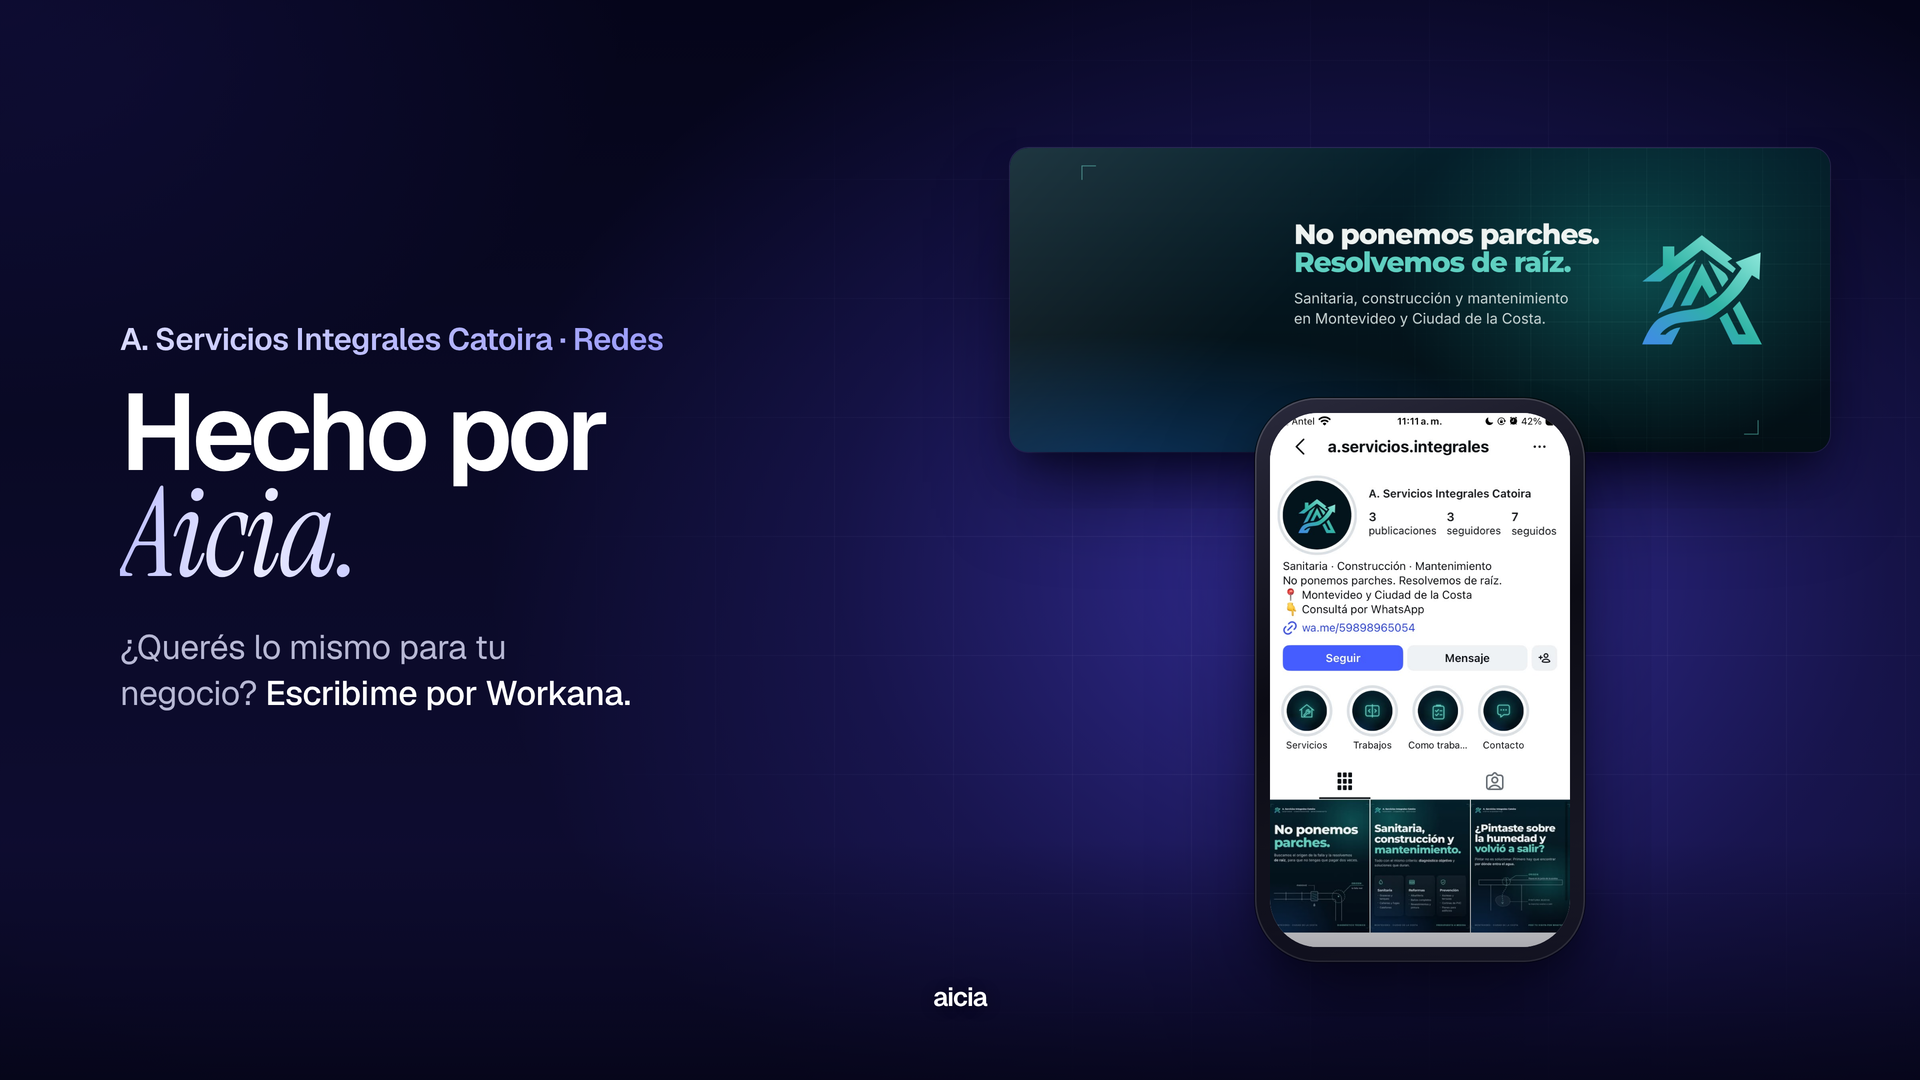
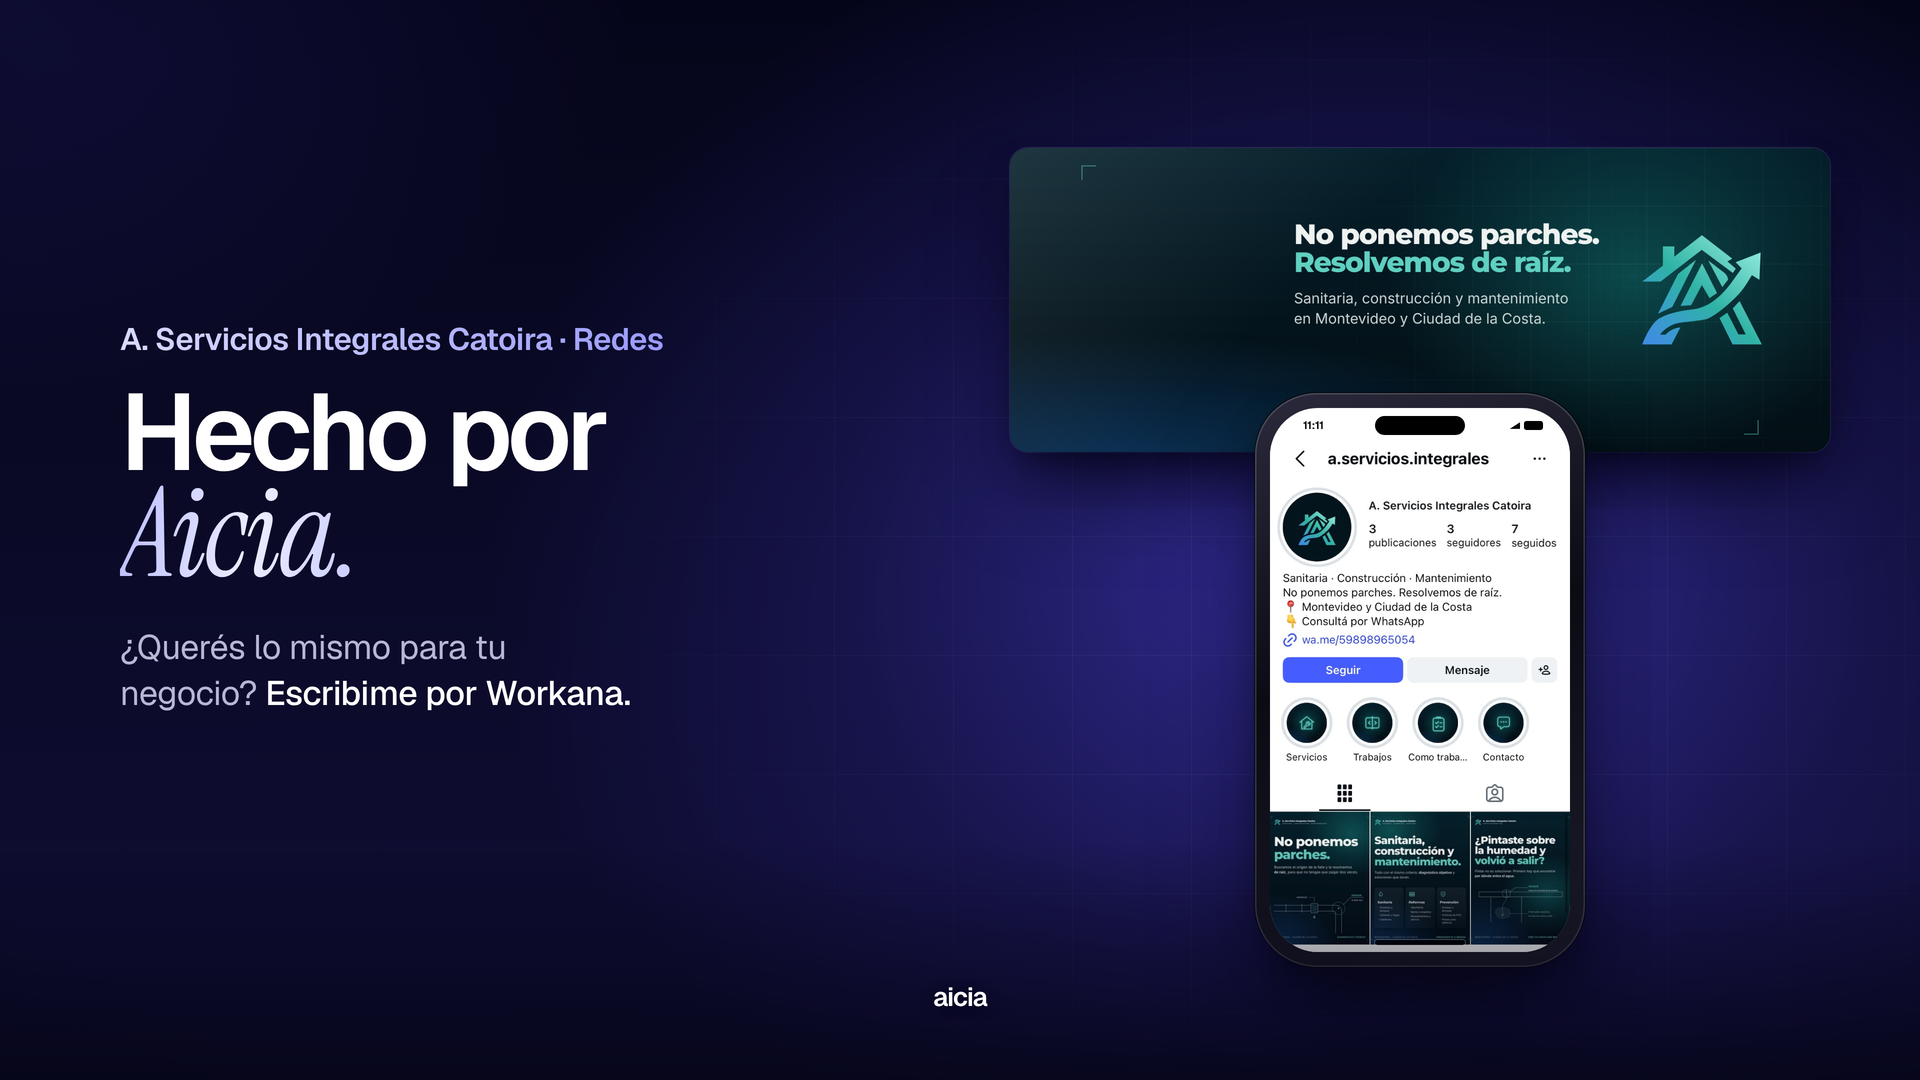
Catoira portfolio: el perfil calza en el celular (barra de estado propia, isla y sin franja blanca)
Claude-Session: https://claude.ai/code/session_01SBSshHAET78NiDLxszLW9R

Changed region(s): [[0.6562, 0.3667, 0.8125, 0.8861]]

diff --git a/clientes/catoira/portfolio/workana.html b/clientes/catoira/portfolio/workana.html
@@ -32,8 +32,15 @@ body{font-family:"Geist",system-ui,sans-serif;-webkit-font-smoothing:antialiased
 .pc::after{content:"";position:absolute;inset:0;border-radius:inherit;background:linear-gradient(135deg,rgba(255,255,255,.10),transparent 38%);pointer-events:none}
 /* Teléfono: marco oscuro con brillo de borde */
 .ph{border-radius:62px;padding:15px;background:linear-gradient(160deg,#2A2A3C,#0B0B14 45%,#1C1C2A);box-shadow:0 60px 110px -20px rgba(2,2,14,.8),0 20px 40px -10px rgba(2,2,14,.6),inset 0 0 0 1.5px rgba(255,255,255,.16),0 0 0 1px rgba(0,0,0,.6)}
-.ph .scr{width:100%;height:100%;border-radius:48px;overflow:hidden;background:#fff}
-.ph .scr img{display:block;width:100%;height:100%;object-fit:cover;object-position:top}
+.ph .scr{width:100%;height:100%;border-radius:48px;overflow:hidden;background:#fff;position:relative;display:flex;flex-direction:column}
+/* Barra de estado propia (la de la captura se recorta: las esquinas del celular la cortaban) */
+.ph .sb{flex:none;position:relative;display:flex;align-items:center;justify-content:space-between;padding:0 9% 0 11%;color:#000;font-weight:600;letter-spacing:-0.01em}
+.ph .isl{position:absolute;left:50%;top:22%;height:56%;width:30%;transform:translateX(-50%);background:#000;border-radius:999px}
+.ph .ic{display:flex;align-items:center;gap:.32em}
+.ph .ic i{display:block;background:#000}
+.ph .im{flex:1;overflow:hidden}
+.ph .im img{display:block;width:100%}
+.ph .home{position:absolute;left:35%;right:35%;bottom:1.3%;height:5px;border-radius:9px;background:rgba(0,0,0,.85);box-shadow:0 0 0 1px rgba(255,255,255,.35)}
 .ph.dim{filter:saturate(.75) brightness(.72)}
 .tag{font-size:24px;font-weight:600;letter-spacing:.12em;text-transform:uppercase;color:#C7C9FF;text-align:center}
 .tag.off{color:#8F91B8}
@@ -62,16 +69,18 @@ const P = '../piezas/', S = 'src/';
 const EY = 'A. Servicios Integrales Catoira · Redes';
 // Helpers: cada pieza se ubica por su centro (cx, cy), con ancho, alto y giro
 const pc = (src, cx, cy, w, h, r = 0, z = 1, extra = '') => `<div class="pc" style="left:${cx - w / 2}px;top:${cy - h / 2}px;width:${w}px;height:${h}px;transform:rotate(${r}deg);z-index:${z};${extra}"><img src="${src}"></div>`;
-const ph = (src, cx, cy, w, cls = '', z = 1) => { const h = Math.round((w - 30) * 1334 / 750) + 30;
-  return `<div class="ph ${cls}" style="left:${cx - w / 2}px;top:${cy - h / 2}px;width:${w}px;height:${h}px;z-index:${z}"><div class="scr"><img src="${src}"></div></div>`; };
+const CUT = 44; // px de la barra de estado de las capturas (750×1334)
+const ph = (src, cx, cy, w, cls = '', z = 1, time = '11:11') => { const W = w - 30, sb = Math.round(W * .118), h = sb + Math.round(W * (1334 - CUT - 18) / 750) + 30, fs = Math.round(W * .036);
+  const ic = `<span class="ic"><i style="width:${fs*.95}px;height:${fs*.62}px;clip-path:polygon(0 100%,100% 0,100% 100%)"></i><i style="width:${fs*1.75}px;height:${fs*.82}px;border-radius:${fs*.22}px"></i></span>`;
+  return `<div class="ph ${cls}" style="left:${cx - w / 2}px;top:${cy - h / 2}px;width:${w}px;height:${h}px;z-index:${z}"><div class="scr"><div class="sb" style="height:${sb}px;font-size:${fs}px"><span>${time}</span><div class="isl"></div>${ic}</div><div class="im"><img src="${src}" style="margin-top:${-Math.round(W * CUT / 750)}px"></div><div class="home"></div></div></div>`; };
 const tag = (t, cx, y, off = '') => `<div class="tag ${off}" style="left:${cx - 200}px;top:${y}px;width:400px">${t}</div>`;
 const circ = (src, cx, cy, d, cap) => `<div class="circ" style="left:${cx - d / 2}px;top:${cy - d / 2}px;width:${d}px;height:${d}px"><img src="${src}"></div><div class="cap" style="left:${cx - 120}px;top:${cy + d / 2 + 18}px;width:240px">${cap}</div>`;
 
 const SLIDES = {
   '01-portada': { title: 'Presencia<br><span class="serif">digital.</span>',
     lede: 'Instagram, WhatsApp Business, Facebook y Google para una empresa de <b>sanitaria y mantenimiento</b> de Montevideo.',
-    scene: ph(S + 'ig-antes.jpg', 1190, 560, 380, 'dim', 1) + tag('Antes', 1190, 905, 'off') +
-           ph(S + 'ig-despues.jpg', 1575, 520, 470, '', 2) + tag('Después', 1575, 958) },
+    scene: ph(S + 'ig-antes.jpg', 1150, 575, 380, 'dim', 1, '10:45') + tag('Antes', 1150, 920, 'off') +
+           ph(S + 'ig-despues.jpg', 1590, 520, 470, '', 2) + tag('Después', 1590, 958) },
   '02-instagram': { title: 'Un perfil que<br><span class="serif">se entiende.</span>',
     lede: 'Foto que se lee, bio con qué hacen, dónde y cómo pedirlo, y <b>3 publicaciones</b> de arranque.',
     scene: pc(P + 'publicaciones/publicacion-1-no-ponemos-parches.png', 1150, 560, 400, 500, -6, 1) +
